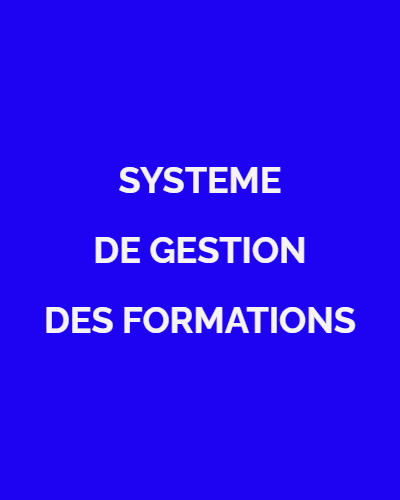
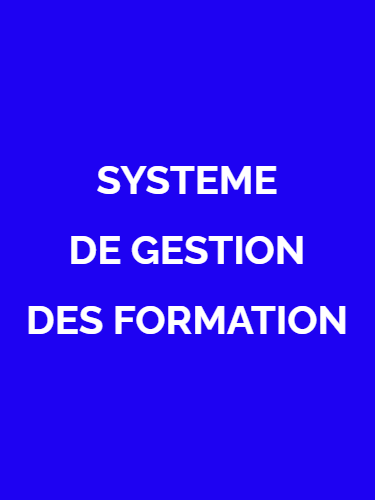
correction des couleurs background

Changed region(s): [[0.0587, 0.6, 0.9387, 0.69], [0.176, 0.45, 0.8213, 0.54], [0.264, 0.33, 0.7333, 0.39]]

diff --git a/MenuAccueil.py b/MenuAccueil.py
@@ -14,18 +14,18 @@ class MenuAccueil:
         largeur_ecran = self.root.winfo_screenwidth()
         hauteur_ecran = self.root.winfo_screenheight()
         self.root.geometry('%dx%d' % (largeur_ecran, hauteur_ecran))
-        self.root.configure(bg='#DADADA')
+        self.root.configure(bg='#1E02F2')
 
         self.arriere_plan = ImageTk.PhotoImage(file="images/yekolaBackground.png")
         arriere_plan = Label(self.root, image=self.arriere_plan)
         arriere_plan.place(x=0, y=0, relwidth=1, relheight=1)
 
-        self.imgGaucheLabel = ImageTk.PhotoImage(file="images/yekolaBackground.png")
+        self.imgGaucheLabel = ImageTk.PhotoImage(file="images/yekola_acceuil_image.png")
         imgGaucheLabel = Label(self.root, image=self.imgGaucheLabel)
-        imgGaucheLabel.place(x=200, y=100,width=300, height=450)
+        imgGaucheLabel.place(x=100, y=11,width=375, height=500)
 
         #frame bouton navigation
-        frameMenu = Frame(self.root, bd=2,relief="groove", bg="blue")
+        frameMenu = Frame(self.root, bd=2,relief="groove", bg="#1E02F2")
         frameMenu.place(x=500,y=100, width=700, height=450)
 
         bouton1 = Button(frameMenu, text="GESTIONS DES ETUDIANTS", font=('Arial', 12, 'bold'), width=28, height=3, cursor="hand2", command= self.gestions_etudiants)
